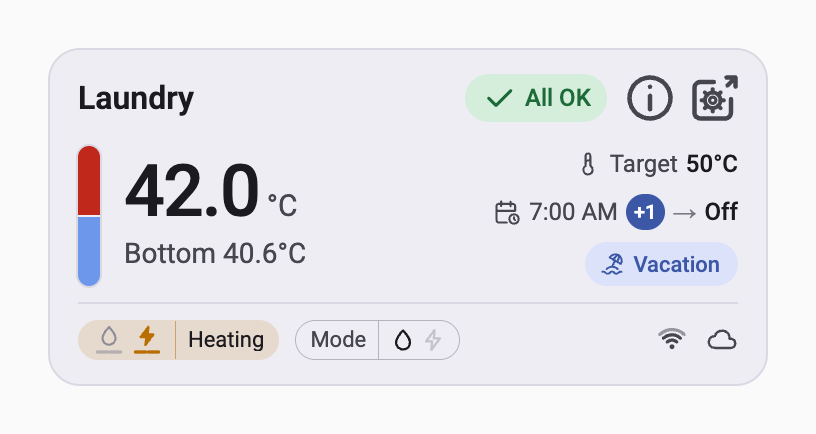
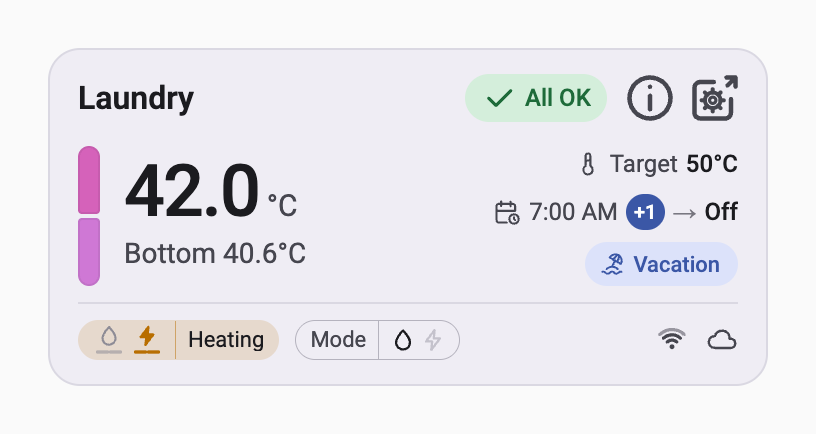
Colour each tank half by its own sensor's temperature
Each half is one solid colour from a 46-entry table, one colour per whole
degree from 15 to 60 °C, blue through lavender and orchid to red. Unequal
readings move 1 °C apart so even a one-degree difference shows, and the pair
shifts together back inside the scale. The halves are equal, 2 px apart, with
a light inner outline; a sensor that is not reporting is grey hatching. The
bar's label reads "Top 52.4 °C, bottom 49.0 °C".

Screenshot sample targets now stay within the 55 °C maximum.

Changed region(s): [[0.0919, 0.3295, 0.1225, 0.659]]

diff --git a/custom_components/ezgeyser/www/ezgeyser-card.js b/custom_components/ezgeyser/www/ezgeyser-card.js
@@ -225,29 +225,33 @@ function detailsHtml(view, showSource) {
     <dl>${row('Target',target)}${showSource ? row('Heat source',view.source) + row('Switch-over',view.switchOver) : ''}${row('Repeats',view.repeats)}</dl>
     <footer><button class="text-button" data-entity="next_event">History</button><button class="filled-button" data-close>Close</button></footer></div>`;
 }
-// Equal or single readings use the absolute temperature hue; otherwise red and blue
-// distinguish the warmer and cooler halves, with additional lightness contrast.
+// The tank bar's colours, one place to retune them (the Android app's TankColors is the same scale). One sRGB colour per
+// whole degree from SCALE_MIN to SCALE_MAX, index = °C − SCALE_MIN, made once by linear OKLCH interpolation between
+// anchors (°C: L C H) 15: .46 .16 264 · 22: .58 .15 262 · 28: .69 .13 270 · 35: .76 .12 300 · 40: .70 .16 325 ·
+// 45: .64 .19 345 · 50: .60 .20 5 · 55: .55 .20 20 · 60: .50 .19 27. The table is the truth; never recompute it here.
+// Blue is cold tap water, lavender skin temperature, orchid a comfortable shower, rose scald risk; 60 is the hottest the
+// geyser reaches (targets stop at 55).
+const SCALE_MIN = 15, SCALE_MAX = 60;
+const TEMP_COLORS = ['#2850B0','#2C55B5','#305BB9','#3460BE','#3966C3','#3D6CC8','#4271CD','#4777D2',
+  '#507CD6','#5981DB','#6286DF','#6B8BE3','#7491E8','#7C96EC','#8697EE','#9098F0','#9A9AF1','#A39BF2','#AC9CF2','#B49EF2',
+  '#BD9FF2','#C098EE','#C490E9','#C888E3','#CB80DC','#CF78D5','#D171CC','#D369C4','#D562BA','#D65AB1','#D852A6','#D94D9C',
+  '#D94791','#DA4287','#DA3D7B','#DA3870','#D73466','#D5305C','#D22C52','#CF2848','#CC243D','#C82237','#C42031','#BF1E2A',
+  '#BB1B24','#B7191C'];
+const roundHalfUp = t => Math.floor(t + .5);
+const tempColor = c => TEMP_COLORS[Math.min(SCALE_MAX,Math.max(SCALE_MIN,c)) - SCALE_MIN];
+// [top, bottom] colours in °C; null for a sensor that is not reporting (its half is hatched). Neighbouring degrees look
+// alike, so unequal readings move 1 °C apart, then shift together back inside the scale. The card prints the real values.
 function tankColors(top, bottom) {
-  const anchors = [[20,220],[30,165],[40,40],[50,25],[60,12],[75,0]];
-  function hue(t) {
-    if (t <= 20) return 220;
-    for (let i = 1; i < anchors.length; i++) {
-      if (t <= anchors[i][0]) {
-        const [a,h] = anchors[i-1], [b,j] = anchors[i];
-        return h + (j-h)*(t-a)/(b-a);
-      }
-    }
-    return 0;
-  }
-  const difference = top !== null && bottom !== null ? top-bottom : 0;
-  // At a 1°C delta the halves differ by 24 lightness points; never exaggerate numbers.
-  const contrast = Math.abs(difference) < .05 ? 0 : Math.min(18, 12 + Math.abs(difference)/3);
-  return [top,bottom].map((t,i) => {
-    if (t === null) return 'var(--off)';
-    const relative = (i === 0 ? 1 : -1)*Math.sign(difference);
-    const colorHue = contrast ? (relative > 0 ? 5 : 220) : hue(t);
-    return `hsl(${colorHue.toFixed(2)} 76% ${55 - relative*contrast}%)`;
-  });
+  if (top === null || bottom === null) return [top,bottom].map(t => t === null ? null : tempColor(roundHalfUp(t)));
+  const rt = roundHalfUp(top), rb = roundHalfUp(bottom);
+  if (rt === rb) return [tempColor(rt),tempColor(rb)];
+  const s = rt > rb ? 1 : -1;
+  let et = rt + s, eb = rb - s;
+  const hi = Math.max(et,eb);
+  if (hi > SCALE_MAX) { et -= hi - SCALE_MAX; eb -= hi - SCALE_MAX; }
+  const lo = Math.min(et,eb);
+  if (lo < SCALE_MIN) { et += SCALE_MIN - lo; eb += SCALE_MIN - lo; }
+  return [tempColor(et),tempColor(eb)];
 }
 // The number's and the second line's line heights are trimmed to the glyphs, so the text block centres on its digits.
 // The middle row is always as tall as a full right column (target, event and a mode line), with or without modes, so
@@ -258,7 +262,7 @@ const STYLE = `
 :host([dark]){--surface:#202024;--text:#E5E1E6;--secondary:#C6C5CF;--tertiary:#908F99;--line:#34343A;--off:#77767F;--ok:#9AD6A9;--ok-bg:#1E3826;--warn:#FFB95E;--warn-bg:#4A2B00;--primary:#B4C5FF;--on-primary:#13285E;--primary-bg:#2B3A66;--dialog:#2A2A2F;--gas:#FF8F57;--electric:#F2B33D;--wifi-off:#66656E;--mode-off:#4A4950;--line-strong:#57565E}
 *{box-sizing:border-box}ha-card{display:block;background:var(--ha-card-background,var(--surface));color:var(--text);border:1px solid var(--ha-card-border-color,var(--line));border-radius:var(--ha-card-border-radius,16px);box-shadow:var(--ha-card-box-shadow,none);overflow:hidden}ha-card,.sample{font-family:var(--paper-font-body1_-_font-family,Roboto,Arial,sans-serif)}
 .card{padding:12px 14px 10px;outline:none}.entity-button{font:inherit;color:inherit;background:none;border:0;padding:0;text-align:inherit;cursor:pointer}.entity-button:focus-visible{outline:2px solid var(--primary);outline-offset:2px;border-radius:3px}.card:focus-visible{outline:3px solid var(--primary);outline-offset:-3px;border-radius:16px}.header{display:flex;align-items:center;gap:10px;min-width:0;min-height:24px}.name{margin:0;flex:1;min-width:0;font-size:16px;font-weight:600;overflow:hidden;text-overflow:ellipsis;white-space:nowrap}.badge{display:inline-flex;align-items:center;gap:4px;padding:3px 8px;border-radius:20px;max-width:60%;font-size:12px;font-weight:500;color:var(--ok);background:var(--ok-bg)}.badge span{overflow:hidden;text-overflow:ellipsis;white-space:nowrap}.badge.warning{color:var(--warn);background:var(--warn-bg)}.icon{width:16px;height:16px;flex:none}.header .icon{width:18px;height:18px;stroke-width:2}.details-button{position:relative;flex:none;width:var(--header-action-size,22.8px);height:var(--header-action-size,22.8px);border:0;background:none;color:var(--secondary);padding:0;display:grid;place-items:center;border-radius:50%;cursor:pointer}.details-button::before{content:"";position:absolute;z-index:0;width:48px;height:48px;left:50%;top:50%;transform:translate(-50%,-50%);border-radius:50%}.header .name,.header .badge{position:relative;z-index:1}.details-button .icon{position:absolute;z-index:1;left:50%;top:50%;width:120%;height:120%;transform:translate(-50%,-50%)}.details-button:focus-visible{outline:2px solid var(--primary);outline-offset:3px}.details-button[aria-disabled="true"]{opacity:.38;cursor:default}.details-button[aria-disabled="true"]::before{pointer-events:none}
-.temperatures{display:grid;grid-template-columns:minmax(0,1fr) auto;column-gap:10px;row-gap:8px;align-items:center;min-height:var(--row-h);margin:12px 0 8px}.left{display:flex;align-items:center;align-self:stretch;gap:12px;min-width:0}.tank{width:11px;flex:none;align-self:stretch;border-radius:6px;overflow:hidden;display:flex;flex-direction:column;box-shadow:0 0 0 1px var(--line)}.half{height:50%;flex:1}.half+.half{border-top:1px solid var(--surface)}.half.fault{background:repeating-linear-gradient(135deg,var(--off) 0 3px,var(--surface) 3px 5px)!important}.readings{min-width:0}.reading{display:flex;align-items:baseline;gap:4px;white-space:nowrap;line-height:.75}.number{font-size:36px;font-weight:500;letter-spacing:-1px;font-variant-numeric:tabular-nums}.unit{font-size:15px;color:var(--secondary)}.secondary{display:block;font-size:14px;line-height:.95;white-space:nowrap;color:var(--secondary);margin-top:11px}.fault-text{color:var(--warn)}
+.temperatures{display:grid;grid-template-columns:minmax(0,1fr) auto;column-gap:10px;row-gap:8px;align-items:center;min-height:var(--row-h);margin:12px 0 8px}.left{display:flex;align-items:center;align-self:stretch;gap:12px;min-width:0}.tank{width:11px;flex:none;align-self:stretch;display:flex;flex-direction:column;gap:2px}.tank .half{flex:1 1 0;min-height:0;border-radius:5.5px 5.5px 2px 2px;box-shadow:inset 0 0 0 1px rgba(28,27,34,.08)}.tank .half+.half{border-radius:2px 2px 5.5px 5.5px}.half.fault{background:repeating-linear-gradient(135deg,#C6C3D1 0 4px,#E4E2EA 4px 8px)}.readings{min-width:0}.reading{display:flex;align-items:baseline;gap:4px;white-space:nowrap;line-height:.75}.number{font-size:36px;font-weight:500;letter-spacing:-1px;font-variant-numeric:tabular-nums}.unit{font-size:15px;color:var(--secondary)}.secondary{display:block;font-size:14px;line-height:.95;white-space:nowrap;color:var(--secondary);margin-top:11px}.fault-text{color:var(--warn)}
 .right{display:flex;flex-direction:column;align-items:flex-end;justify-content:center;gap:6px;min-width:0;font-size:12px;color:var(--secondary);text-align:right}.line{display:inline-flex;align-items:center;justify-content:flex-end;gap:4px;max-width:100%;min-height:var(--line-h);white-space:nowrap;overflow:hidden}.line .icon{width:14px;height:14px}.value{font-weight:500;color:var(--text)}.quiet{color:var(--tertiary)}.day-badge{display:inline-grid;place-items:center;flex:none;height:18px;min-width:18px;padding:0 4px;border-radius:9px;background:var(--primary);color:var(--on-primary);font-size:10px;font-weight:600;line-height:1}.modes{display:flex;gap:6px;flex:none}.chip{display:inline-flex;align-items:center;justify-content:center;gap:4px;height:var(--chip-h);min-width:var(--chip-h);border-radius:11px;padding:0 9px 0 7px;font-size:11px;font-weight:500;white-space:nowrap;background:var(--primary-bg);color:var(--primary)}.chip .icon{width:13px;height:13px}.chips-icons .chip{width:var(--chip-h);padding:0}.chips-icons .chip span{display:none}
 .footer{border-top:1px solid var(--line);padding-top:6px;display:flex;align-items:center;gap:8px;min-height:31px;font-size:12px;color:var(--secondary);white-space:nowrap}.start{display:flex;align-items:center;gap:8px;flex:1;min-width:0}.sources{display:flex;gap:6px;flex:none}.heat-control{position:relative;width:24px;height:24px;flex:none}.heat{width:24px;height:24px;color:var(--off);overflow:visible}.glyph{fill:none;stroke:currentColor;stroke-width:2.3;stroke-linejoin:round}.on .glyph{fill:currentColor}.gas.on{color:var(--gas)}.electric.on{color:var(--electric)}.segment{fill:none;stroke:var(--off);opacity:.55;stroke-width:2.6;stroke-linecap:round}.gas .lit{stroke:var(--gas);opacity:1}.electric .lit{stroke:var(--electric);opacity:1}.activity{flex:none;overflow:hidden;text-overflow:ellipsis}.activity.heating{color:var(--text)}.timer,.wifi,.cloud,.clock{display:inline-flex;align-items:center;gap:4px;flex:none}.wifi .icon{width:18px;height:18px}.mode{display:inline-flex;align-items:center;flex:none;height:20px;padding:0 7px;border:1px solid var(--line-strong);border-radius:10px;font-size:11px;line-height:1;color:var(--secondary)}.mode-word{align-self:stretch;display:inline-flex;align-items:center;padding-right:6px;margin-right:6px;border-right:1px solid var(--line-strong)}.mode-icons{display:inline-flex;align-items:center;gap:3px}.mode-icon{width:12px;height:12px;flex:none;fill:none;stroke:var(--mode-off);stroke-width:2.3;stroke-linejoin:round}.mode-icon.allowed{stroke:var(--text)}.mode-arrow{width:9px;height:9px;flex:none;fill:none;stroke:var(--tertiary);stroke-width:2.4;stroke-linecap:round;stroke-linejoin:round}.heat-status{display:inline-flex;align-items:center;flex:none;height:20px;padding:0 7px;border:1px solid var(--line-strong);border-radius:10px;font-size:11px;line-height:1}.heat-status .sources{gap:3px}.heat-status .heat-control,.heat-status .heat{width:16px;height:16px}.heat-status .timer .icon{width:13px;height:13px}.state-text{align-self:stretch;display:inline-flex;align-items:center;gap:8px;padding-left:6px;margin-left:6px;border-left:1px solid var(--line-strong)}.tint-gas{background:color-mix(in srgb,var(--gas) 16%,transparent);border-color:transparent}.tint-gas .state-text{border-left-color:color-mix(in srgb,var(--gas) 50%,transparent)}.tint-electric{background:color-mix(in srgb,var(--electric) 16%,transparent);border-color:transparent}.tint-electric .state-text{border-left-color:color-mix(in srgb,var(--electric) 50%,transparent)}@media(min-resolution:2dppx){.mode,.mode-word,.heat-status,.state-text{border-width:.5px}}.status{display:flex;align-items:center;gap:8px;flex:none;margin-left:auto}.warn{color:var(--warn)}.stale .number,.stale .unit,.stale .secondary{color:var(--tertiary)}.stale .tank{opacity:.45}.stale .right{color:var(--tertiary)}
 .no-mode-word .mode-word,.no-timer-text .timer span{display:none}.truncate-state .heat-status{flex:0 1 auto}.truncate-state .state-text{display:grid;grid-auto-flow:column;grid-template-columns:minmax(0,max-content)}.truncate-state .activity{min-width:0}
@@ -516,6 +520,7 @@ class EzGeyserCard extends HTMLElement {
     };
     const top = fault('top') ? null : celsius(shown.top), bottom = fault('bottom') ? null : celsius(shown.bottom);
     const colors = tankColors(top,bottom);
+    const half = (key, color) => `<button class="half entity-button${color ? '' : ' fault'}" data-entity="${key}" aria-label="Open ${key} temperature details"${color ? ` style="background:${color}"` : ''}></button>`;
     const link = connectivity(shown);
     const issues = problems(shown,link);
     let badge = badgeText(issues);
@@ -556,7 +561,8 @@ class EzGeyserCard extends HTMLElement {
     // last_updated is an HA state timestamp, not the last successful poll time.
     const lastTime = this._last ? Object.values(this._last).map(s => s?.last_updated).filter(Boolean).sort().at(-1) : null;
     const updated = lastTime ? new Date(lastTime).toLocaleString(hass.locale?.language || 'en') : null;
-    const tankLabel = `Top ${display('top')} ${shown.top?.attributes.unit_of_measurement || '°C'}${fault('top') ? ', sensor fault' : ''}; Bottom ${display('bottom')} ${shown.bottom?.attributes.unit_of_measurement || '°C'}${fault('bottom') ? ', sensor fault' : ''}. Colours emphasize the relative temperature difference.`;
+    const sensorLabel = (key, word) => fault(key) ? `${word} sensor not reporting` : `${word} ${display(key)} ${shown[key]?.attributes.unit_of_measurement || '°C'}`;
+    const tankLabel = `${sensorLabel('top','Top')}, ${sensorLabel('bottom','bottom')}`;
     const active = this.shadowRoot.activeElement;
     const focused = active && this._card.contains?.(active) ? active.dataset : null;
     // The chips' words can be hidden (`chips-icons`), so each says what it is in its label and tooltip.
@@ -565,7 +571,7 @@ class EzGeyserCard extends HTMLElement {
     const badgeLabel = issues.length && badge === badgeText(issues) ? issues.length > 1 ? `${badge}: ${issues.join(', ')}` : issues[0] : badge;
     const links = linkItems(link);
     const body = `<div class="header"><h2 class="name" title="${escape(name)}">${escape(name)}</h2><div class="badge ${warning ? 'warning' : ''}" role="img" aria-label="${escape(badgeLabel)}" title="${escape(badgeLabel)}">${icon(unreachable ? 'offline' : warning ? 'warning' : 'check')}<span>${escape(badge)}</span></div><button class="details-button entity-button" data-entity="${main}" aria-label="Open main temperature details">${icon('info')}</button><a class="details-button device-page-button" data-action="device-page" aria-label="Open device page in browser" title="${escape(page ? `Open ${page.host}` : 'Device address unavailable')}"${this._devicePage ? ` href="${escape(page.url)}" target="_blank" rel="noopener noreferrer"` : ' role="link" aria-disabled="true" tabindex="-1"'}>${devicePageIcon()}</a></div>
-      <div class="temperatures"><div class="left"><div class="tank" role="group" aria-label="${escape(tankLabel)}" title="${escape(tankLabel)}"><button class="half entity-button ${top === null ? 'fault' : ''}" data-entity="top" aria-label="Open top temperature details" style="background:${colors[0]}"></button><button class="half entity-button ${bottom === null ? 'fault' : ''}" data-entity="bottom" aria-label="Open bottom temperature details" style="background:${colors[1]}"></button></div>
+      <div class="temperatures"><div class="left"><div class="tank" role="group" aria-label="${escape(tankLabel)}" title="${escape(tankLabel)}">${half('top',colors[0])}${half('bottom',colors[1])}</div>
       <div class="readings"><button class="reading entity-button" data-entity="${main}" aria-label="Open ${main} temperature details"><span class="number ${number(main) === null ? 'fault-text' : ''}">${escape(display(main))}</span><span class="unit">${escape(unit)}</span></button><button data-entity="${other}" aria-label="Open ${other} temperature details" class="secondary entity-button ${number(other) === null ? 'fault-text' : ''}">${other === 'top' ? 'Top' : 'Bottom'} ${escape(display(other))}${escape(shown[other]?.attributes.unit_of_measurement || '°C')}</button></div></div>
       <div class="right">${unreachable ? '<span class="line">Last known values</span>' : `<button class="line entity-button" data-entity="target" aria-label="${escape(targetLabel)}. Open target temperature details" title="${escape(targetLabel)}">${targetLine}</button>${scheduleLine(this._schedule,Boolean(states.next_event),showSource)}${modes ? `<div class="modes">${modes}</div>` : ''}`}</div></div>
       <div class="footer">${unreachable ? `<div class="start"><span class="activity">${updated ? `Last available ${escape(updated)}` : 'No previous values available'}</span></div>` : `<div class="start">${heatStatus}${modePill(shown.source)}</div>${links ? `<div class="status" role="group" aria-label="${escape(linkLabel(link))}">${links}</div>` : ''}`}</div>`;

diff --git a/assets/screenshots/harness.html b/assets/screenshots/harness.html
@@ -31,8 +31,8 @@ const ONE_ELEMENT = {element_count:1};
 const GEYSERS = {
   upstairs: {name:'Upstairs', values:{top:'39.5', bottom:'35.1', target:'0', next_event:at(0, 21, 30)},
     event:event(55, {switch_over:true, repeat_days:WEEKDAYS}), config:ONE_ELEMENT},
-  kitchen: {name:'Kitchen', values:{top:'51.8', bottom:'47.2', target:'65', burner_left:'on', burner_right:'on', boost:'on',
-    timer:'25', wifi:'fair', next_event:at(1, 6)}, event:event(60), config:ONE_ELEMENT},
+  kitchen: {name:'Kitchen', values:{top:'51.8', bottom:'47.2', target:'55', burner_left:'on', burner_right:'on', boost:'on',
+    timer:'25', wifi:'fair', next_event:at(1, 6)}, event:event(55), config:ONE_ELEMENT},
   bathroom: {name:'Ground Floor Bathroom', values:{top:'28.4', bottom:'24.9', target:'0', vacation:'on', wifi:'excellent'},
     config:ONE_ELEMENT},
   guest: {name:'Guest Bathroom', values:{top:'unknown', top_ok:'off', bottom:'41.3', target:'50', element_1:'on', wifi:'weak',
@@ -40,8 +40,8 @@ const GEYSERS = {
   laundry: {name:'Laundry', values:{top:'42.0', bottom:'40.6', target:'50', element_1:'on', element_2:'on', vacation:'on',
     next_event:at(1, 7)}, event:event(null)},
   garage: {name:'Garage', values:{top:'36.4', bottom:'33.0', target:'0', next_event:at(1, 6, 30)}, event:event(45), unreachable:true},
-  roof: {name:'Rooftop', values:{top:'58.1', bottom:'57.4', target:'60', burner_left:'on', timer:'90', next_event:at(0, 22)},
-    event:event(60, {repeat_days:null})},
+  roof: {name:'Rooftop', values:{top:'58.1', bottom:'57.4', target:'55', burner_left:'on', timer:'90', next_event:at(0, 22)},
+    event:event(55, {repeat_days:null})},
   // Status chip check scenes: both sources heating (tinted gas), and an unknown heating status with a running timer.
   utility: {name:'Utility Room', values:{top:'47.9', bottom:'44.2', target:'55', source:'hybrid', burner_left:'on',
     element_1:'on', timer:'40', next_event:at(1, 6)}, event:event(55)},

diff --git a/README.md b/README.md
@@ -155,9 +155,11 @@ setup errors. Installations without Home Assistant's `frontend` skip the card.
 
 ### Reading the card
 
-- **Tank bar:** the top half is the top sensor and the bottom half the bottom sensor. The warmer half is red and the cooler half blue, with extra lightness contrast so that even a 1 °C difference shows.
-  Equal readings and a single valid reading use a blue-to-red temperature scale. The colours are a
-  guide; the numbers are the reading. A grey hatched half and an amber dash mean that sensor reports a fault.
+- **Tank bar:** the top half is the top sensor and the bottom half the bottom sensor, each coloured by its own reading:
+  blue for cold water (15 °C and below), lavender around skin temperature, orchid for a comfortable shower, then magenta
+  and rose to full red at 60 °C. When the two readings differ, their colours are pushed one degree further apart, so even
+  1 °C shows. The colours are a guide; the numbers are the reading. A grey hatched half and an amber dash mean that sensor
+  reports a fault.
 - **Badge:** **All OK**, the one problem by name (**Top sensor**, **Bottom sensor**, **Weak Wi-Fi**, **Cloud
   offline** or **Clock off**), or how many there are, such as **3 issues**; its tooltip lists them.
 - **Right column:** the target beside a thermometer, or **Target not set** (target 0) or **Target unknown**; then the
